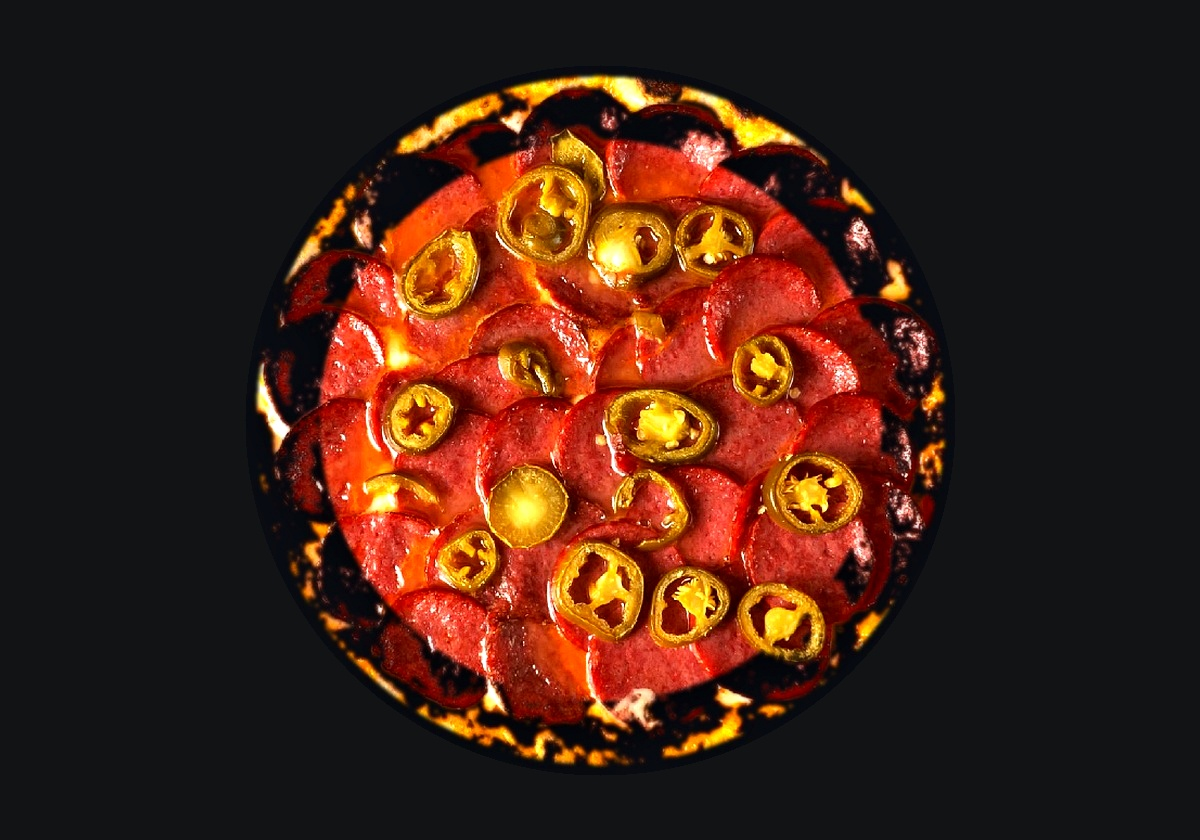
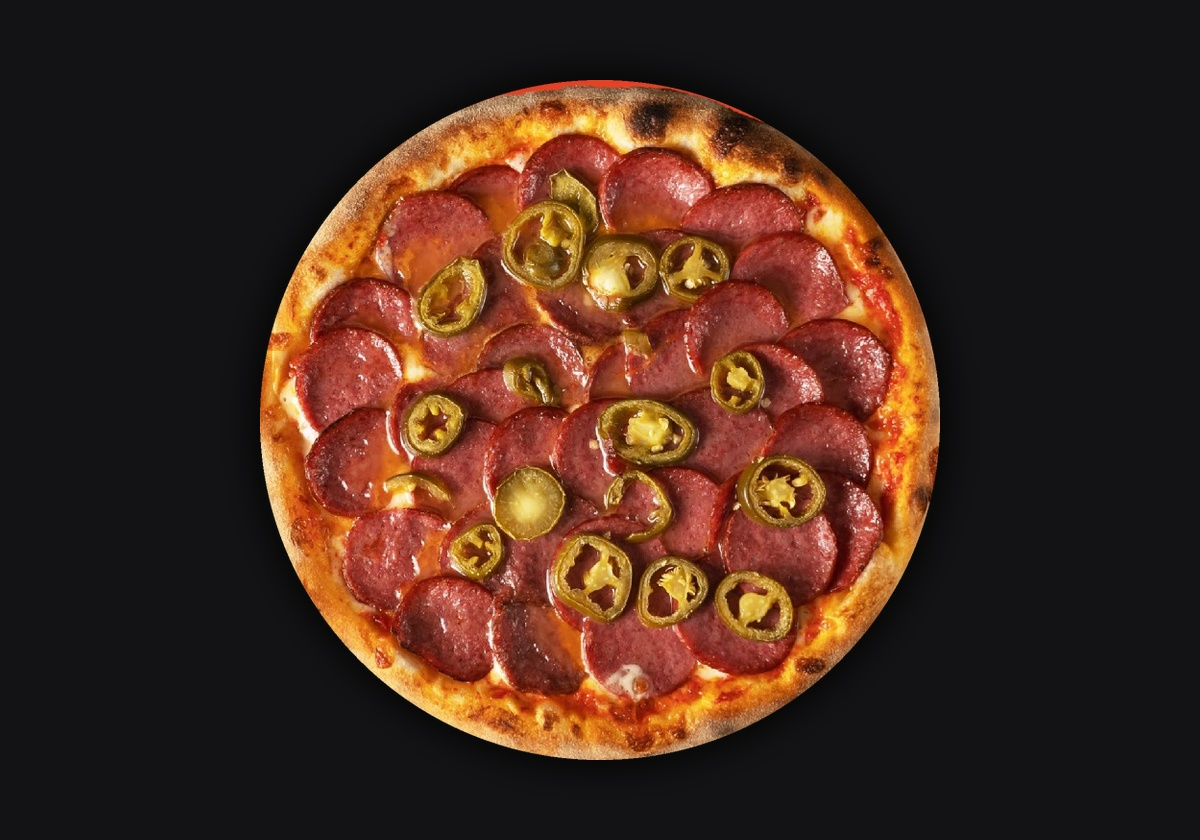
fix: studio quality pizza visuals, streamlined header, and mobile dropdowns

diff --git a/src/components/Navbar.tsx b/src/components/Navbar.tsx
@@ -31,110 +31,91 @@ export function Navbar({
   return (
     <>
       <header className="sticky top-0 z-40 bg-[#0c0e12]/95 backdrop-blur-xl border-b border-[#232832] shadow-lg shadow-black/30">
-        <div className="max-w-7xl mx-auto px-3 sm:px-6 lg:px-8">
-          <div className="flex items-center justify-between h-16 sm:h-20 gap-2 sm:gap-3">
+        <div className="max-w-7xl mx-auto px-2.5 sm:px-6 lg:px-8">
+          <div className="flex items-center justify-between h-15 sm:h-20 gap-2 sm:gap-3">
             {/* Authentic Brand Logo */}
             <Link
               href="/"
               className="flex flex-col justify-center group shrink-0 py-1"
               title="Forest Pizza — На головну"
             >
-              <ForestPizzaLogo size="md" className="group-hover:scale-[1.02] transition-transform" />
-              <p className="text-[10px] sm:text-[11px] font-bold text-stone-400 whitespace-nowrap flex items-center gap-1 mt-0.5 pl-0.5">
-                <MapPin className="w-3 h-3 text-orange-500 shrink-0" />
-                <span>Проспект Лісовий, 11</span>
-                <span className="text-orange-400">• Самовивіз & Доставка</span>
+              <ForestPizzaLogo size="sm" className="sm:hidden group-hover:scale-[1.02] transition-transform" />
+              <ForestPizzaLogo size="md" className="hidden sm:inline-flex group-hover:scale-[1.02] transition-transform" />
+              <p className="text-[9px] sm:text-[11px] font-bold text-stone-400 whitespace-nowrap flex items-center gap-1 mt-0.5 pl-0.5">
+                <MapPin className="w-2.5 h-2.5 sm:w-3 sm:h-3 text-orange-500 shrink-0" />
+                <span>Лісовий просп., 11</span>
+                <span className="hidden sm:inline text-orange-400">• Самовивіз & Доставка</span>
               </p>
             </Link>
 
             {/* Desktop Navigation (lg+) */}
-            <nav className="hidden lg:flex items-center gap-1 xl:gap-1.5 bg-[#14171f] border border-[#242936] rounded-2xl p-1.5">
+            <nav className="hidden lg:flex items-center gap-1 xl:gap-2 bg-[#14171f] border border-[#242936] rounded-2xl p-1.5">
               <button
                 onClick={() => scrollTo("menu")}
                 className="px-3 xl:px-3.5 py-2 rounded-xl text-xs xl:text-sm font-bold text-stone-200 hover:text-white hover:bg-[#1e232f] transition-all whitespace-nowrap cursor-pointer"
               >
-                🍕 Меню (23 піци)
+                Меню
               </button>
               <button
                 onClick={() => setDeliveryModalOpen(true)}
                 className="px-3 xl:px-3.5 py-2 rounded-xl text-xs xl:text-sm font-bold text-orange-400 hover:text-white hover:bg-orange-500/20 transition-all whitespace-nowrap cursor-pointer flex items-center gap-1.5"
               >
                 <Bike className="w-4 h-4" />
-                <span>Доставка (70 ₴)</span>
+                <span>Доставка 70 ₴</span>
               </button>
               <button
                 onClick={() => scrollTo("takeaway")}
                 className="px-3 xl:px-3.5 py-2 rounded-xl text-xs xl:text-sm font-bold text-stone-200 hover:text-white hover:bg-[#1e232f] transition-all whitespace-nowrap cursor-pointer"
               >
-                🛍 Замовлення на час
+                Замовлення на час
               </button>
               <button
                 onClick={() => scrollTo("about")}
                 className="px-3 xl:px-3.5 py-2 rounded-xl text-xs xl:text-sm font-bold text-stone-200 hover:text-white hover:bg-[#1e232f] transition-all whitespace-nowrap cursor-pointer"
               >
-                🔥 Про заклад
+                Про заклад
               </button>
               <button
                 onClick={() => scrollTo("location")}
                 className="px-3 xl:px-3.5 py-2 rounded-xl text-xs xl:text-sm font-bold text-stone-200 hover:text-white hover:bg-[#1e232f] transition-all whitespace-nowrap cursor-pointer"
               >
-                📍 Контакти
+                Контакти
               </button>
             </nav>
 
-            {/* Right Actions */}
-            <div className="flex items-center gap-1.5 sm:gap-2.5 shrink-0">
-              {/* Delivery info button (tablet/desktop) */}
-              <button
-                onClick={() => setDeliveryModalOpen(true)}
-                className="hidden md:flex items-center gap-1.5 text-xs font-bold text-orange-300 hover:text-white bg-orange-950/40 hover:bg-orange-950/80 border border-orange-500/30 px-3 py-2.5 rounded-xl transition-all whitespace-nowrap cursor-pointer"
-              >
-                <Bike className="w-4 h-4 text-orange-400 shrink-0" />
-                <span>Доставка 70 ₴</span>
-              </button>
-
-              {/* Phone Call Button */}
+            {/* Right Actions: Phone + Unified Cart/Order Button */}
+            <div className="flex items-center gap-1.5 sm:gap-3 shrink-0">
+              {/* Phone Call (md+) */}
               <a
                 href={`tel:${restaurantPhone.replace(/\s+/g, "")}`}
-                className="hidden sm:flex items-center gap-2 text-xs font-bold text-stone-200 hover:text-orange-400 bg-[#151820] hover:bg-[#1d222d] border border-[#282e3b] px-3 py-2.5 rounded-xl transition-all whitespace-nowrap"
+                className="hidden md:flex items-center gap-1.5 text-xs font-bold text-stone-300 hover:text-orange-400 bg-[#151820] hover:bg-[#1d222d] border border-[#282e3b] px-3 py-2 rounded-xl transition-all whitespace-nowrap"
                 title={`Зателефонувати: ${restaurantPhone}`}
               >
-                <Phone className="w-4 h-4 text-orange-400 shrink-0" />
-                <span className="hidden xl:inline">{restaurantPhone}</span>
+                <Phone className="w-3.5 h-3.5 text-orange-400 shrink-0" />
+                <span>{restaurantPhone}</span>
               </a>
 
-              {/* Cart Button */}
+              {/* Primary Cart / Order Button */}
               <button
                 onClick={() => setIsCartOpen(true)}
-                className="relative flex items-center gap-1.5 sm:gap-2 px-2.5 sm:px-3 py-2.5 rounded-xl bg-[#151820] hover:bg-[#1d222d] text-white border border-[#282e3b] transition-all cursor-pointer whitespace-nowrap"
+                className="flex items-center gap-1.5 sm:gap-2 bg-gradient-to-r from-orange-500 to-amber-500 hover:from-orange-600 hover:to-amber-600 text-white font-black text-xs sm:text-sm px-2.5 sm:px-4 py-1.5 sm:py-2.5 rounded-xl shadow-lg shadow-orange-950/50 transition-all hover:scale-[1.02] cursor-pointer whitespace-nowrap"
                 aria-label="Кошик замовлень"
               >
-                <ShoppingBag className="w-5 h-5 text-orange-400 shrink-0" />
+                <ShoppingBag className="w-4 h-4 text-white shrink-0" />
+                <span className="hidden xs:inline">Кошик</span>
                 {totalCount > 0 ? (
-                  <span className="text-xs font-black text-orange-400 hidden sm:inline">
-                    {totalPrice} ₴
+                  <span className="bg-black/40 text-white text-[10px] sm:text-[11px] font-black px-1.5 py-0.5 rounded-md">
+                    {totalCount} • {totalPrice} ₴
                   </span>
-                ) : null}
-                {totalCount > 0 && (
-                  <span className="bg-orange-500 text-white font-black text-[11px] min-w-[20px] h-5 px-1 rounded-full flex items-center justify-center shadow-md shadow-orange-950">
-                    {totalCount}
-                  </span>
+                ) : (
+                  <span className="xs:hidden">Кошик</span>
                 )}
-              </button>
-
-              {/* Primary Order CTA */}
-              <button
-                onClick={() => setIsCartOpen(true)}
-                className="hidden sm:flex items-center gap-2 bg-gradient-to-r from-orange-500 to-amber-500 hover:from-orange-600 hover:to-amber-600 text-white font-black text-xs sm:text-sm px-3.5 sm:px-4 py-2.5 rounded-xl shadow-lg shadow-orange-950/50 transition-all hover:scale-[1.02] cursor-pointer whitespace-nowrap"
-              >
-                <Store className="w-4 h-4 text-white shrink-0" />
-                <span>Замовити</span>
               </button>
 
               {/* Mobile/Tablet Menu Toggle */}
               <button
                 onClick={() => setMobileMenuOpen(!mobileMenuOpen)}
-                className="lg:hidden p-2.5 rounded-xl bg-[#151820] text-stone-200 hover:text-white border border-[#282e3b]"
+                className="lg:hidden p-1.5 sm:p-2 rounded-xl bg-[#151820] text-stone-200 hover:text-white border border-[#282e3b] cursor-pointer"
                 aria-label="Меню навігації"
               >
                 {mobileMenuOpen ? <X className="w-5 h-5" /> : <Menu className="w-5 h-5" />}
@@ -154,7 +135,7 @@ export function Navbar({
                 onClick={() => scrollTo("menu")}
                 className="text-left px-3.5 py-2.5 text-sm font-bold text-stone-200 hover:bg-[#181c24] hover:text-orange-400 rounded-xl transition-colors cursor-pointer"
               >
-                🍕 Меню (23 піци, чебуреки, закуски, бортики)
+                🍕 Меню (23 піци, чебуреки, закуски)
               </button>
               <button
                 onClick={() => {
@@ -176,7 +157,7 @@ export function Navbar({
                 onClick={() => scrollTo("about")}
                 className="text-left px-3.5 py-2.5 text-sm font-bold text-stone-200 hover:bg-[#181c24] hover:text-orange-400 rounded-xl transition-colors cursor-pointer"
               >
-                🔥 Про заклад та бортики
+                🔥 Про заклад
               </button>
               <button
                 onClick={() => scrollTo("location")}

diff --git a/src/components/MenuSection.tsx b/src/components/MenuSection.tsx
@@ -2,7 +2,7 @@
 
 import React, { useState } from "react";
 import { useCart } from "@/context/CartContext";
-import { Plus, Check, Search, Flame, Info, Pizza, X } from "lucide-react";
+import { Plus, Check, Search, Flame, Info, Pizza, X, ChevronDown } from "lucide-react";
 
 export interface MenuItemData {
   id: string;
@@ -391,21 +391,24 @@ function MenuItemCard({ item }: { item: MenuItemData & { categorySlug: string } 
 
               {/* Pizza Customization: Crust & Addons dropdowns */}
               {isPizza && (
-                <div className="space-y-1.5">
+                <div className="space-y-1.5 pt-0.5">
                   {/* Crust Dropdown */}
                   <div className="space-y-0.5">
                     <label className="block text-[8px] sm:text-[10px] font-bold uppercase tracking-wider text-stone-400">
                       Бортик до піци:
                     </label>
-                    <select
-                      value={selectedCrust}
-                      onChange={(e) => setSelectedCrust(e.target.value as "none" | "cheese" | "sausage")}
-                      className="w-full bg-[#0c0e12] border border-[#252a36] text-white rounded-lg px-2 py-1 text-[9px] sm:text-xs font-semibold focus:outline-none focus:border-orange-500 cursor-pointer"
-                    >
-                      <option value="none">Класичний (без доплати)</option>
-                      <option value="cheese">🧀 Сирний (+{crustAddonPrice} ₴)</option>
-                      <option value="sausage">🌭 Ковбасний (+{crustAddonPrice} ₴)</option>
-                    </select>
+                    <div className="relative">
+                      <select
+                        value={selectedCrust}
+                        onChange={(e) => setSelectedCrust(e.target.value as "none" | "cheese" | "sausage")}
+                        className="w-full appearance-none bg-[#0c0e12] border border-[#272d3b] hover:border-orange-500/50 text-white rounded-lg pl-2 pr-6 py-1 text-[9px] sm:text-xs font-semibold focus:outline-none focus:border-orange-500 cursor-pointer transition-colors"
+                      >
+                        <option value="none">Класичний (без доплати)</option>
+                        <option value="cheese">🧀 Сирний (+{crustAddonPrice} ₴)</option>
+                        <option value="sausage">🌭 Ковбасний (+{crustAddonPrice} ₴)</option>
+                      </select>
+                      <ChevronDown className="w-3 h-3 text-stone-400 absolute right-1.5 top-1/2 -translate-y-1/2 pointer-events-none" />
+                    </div>
                   </div>
 
                   {/* Addons Dropdown */}
@@ -413,28 +416,31 @@ function MenuItemCard({ item }: { item: MenuItemData & { categorySlug: string } 
                     <label className="block text-[8px] sm:text-[10px] font-bold uppercase tracking-wider text-stone-400">
                       Додати топінг (30 г):
                     </label>
-                    <select
-                      value=""
-                      onChange={(e) => {
-                        const addonId = e.target.value;
-                        if (!addonId) return;
-                        const found = PIZZA_ADDONS.find((a) => a.id === addonId);
-                        if (found && !selectedAddons.some((a) => a.id === found.id)) {
-                          setSelectedAddons((prev) => [...prev, found]);
-                        }
-                      }}
-                      className="w-full bg-[#0c0e12] border border-[#252a36] text-stone-300 rounded-lg px-2 py-1 text-[9px] sm:text-xs font-semibold focus:outline-none focus:border-orange-500 cursor-pointer"
-                    >
-                      <option value="">+ Обрати додаток...</option>
-                      {PIZZA_ADDONS.map((a) => {
-                        const isAdded = selectedAddons.some((s) => s.id === a.id);
-                        return (
-                          <option key={a.id} value={a.id} disabled={isAdded}>
-                            {a.icon} {a.name} (+{a.price} ₴) {isAdded ? "✓ додано" : ""}
-                          </option>
-                        );
-                      })}
-                    </select>
+                    <div className="relative">
+                      <select
+                        value=""
+                        onChange={(e) => {
+                          const addonId = e.target.value;
+                          if (!addonId) return;
+                          const found = PIZZA_ADDONS.find((a) => a.id === addonId);
+                          if (found && !selectedAddons.some((a) => a.id === found.id)) {
+                            setSelectedAddons((prev) => [...prev, found]);
+                          }
+                        }}
+                        className="w-full appearance-none bg-[#0c0e12] border border-[#272d3b] hover:border-orange-500/50 text-stone-300 rounded-lg pl-2 pr-6 py-1 text-[9px] sm:text-xs font-semibold focus:outline-none focus:border-orange-500 cursor-pointer transition-colors"
+                      >
+                        <option value="">+ Обрати додаток...</option>
+                        {PIZZA_ADDONS.map((a) => {
+                          const isAdded = selectedAddons.some((s) => s.id === a.id);
+                          return (
+                            <option key={a.id} value={a.id} disabled={isAdded}>
+                              {a.icon} {a.name} (+{a.price} ₴) {isAdded ? "✓ додано" : ""}
+                            </option>
+                          );
+                        })}
+                      </select>
+                      <ChevronDown className="w-3 h-3 text-stone-400 absolute right-1.5 top-1/2 -translate-y-1/2 pointer-events-none" />
+                    </div>
 
                     {/* Active Addon Badges */}
                     {selectedAddons.length > 0 && (
@@ -442,13 +448,13 @@ function MenuItemCard({ item }: { item: MenuItemData & { categorySlug: string } 
                         {selectedAddons.map((addon) => (
                           <span
                             key={addon.id}
-                            className="inline-flex items-center gap-1 bg-orange-950/70 border border-orange-500/40 text-orange-200 text-[8px] sm:text-[10px] font-bold px-1.5 py-0.5 rounded-md"
+                            className="inline-flex items-center gap-1 bg-orange-950/80 border border-orange-500/50 text-orange-200 text-[8px] sm:text-[10px] font-bold px-1.5 py-0.5 rounded-md"
                           >
                             <span>{addon.icon} +{addon.price}₴</span>
                             <button
                               type="button"
                               onClick={() => setSelectedAddons((prev) => prev.filter((a) => a.id !== addon.id))}
-                              className="text-stone-400 hover:text-white cursor-pointer ml-0.5"
+                              className="text-stone-400 hover:text-white cursor-pointer ml-0.5 p-0.5"
                               title="Видалити"
                             >
                               ✕

diff --git a/src/app/page.tsx b/src/app/page.tsx
@@ -42,7 +42,7 @@ export default async function HomePage() {
 
   return (
     <CartProvider>
-      <div className="min-h-screen bg-[#0c0e12] text-stone-100 flex flex-col selection:bg-orange-600 selection:text-white pb-20 md:pb-0">
+      <div className="min-h-screen bg-[#0c0e12] text-stone-100 flex flex-col selection:bg-orange-600 selection:text-white pb-28 md:pb-0">
         {/* Navigation */}
         <Navbar
           restaurantPhone={settings.restaurant_phone}
